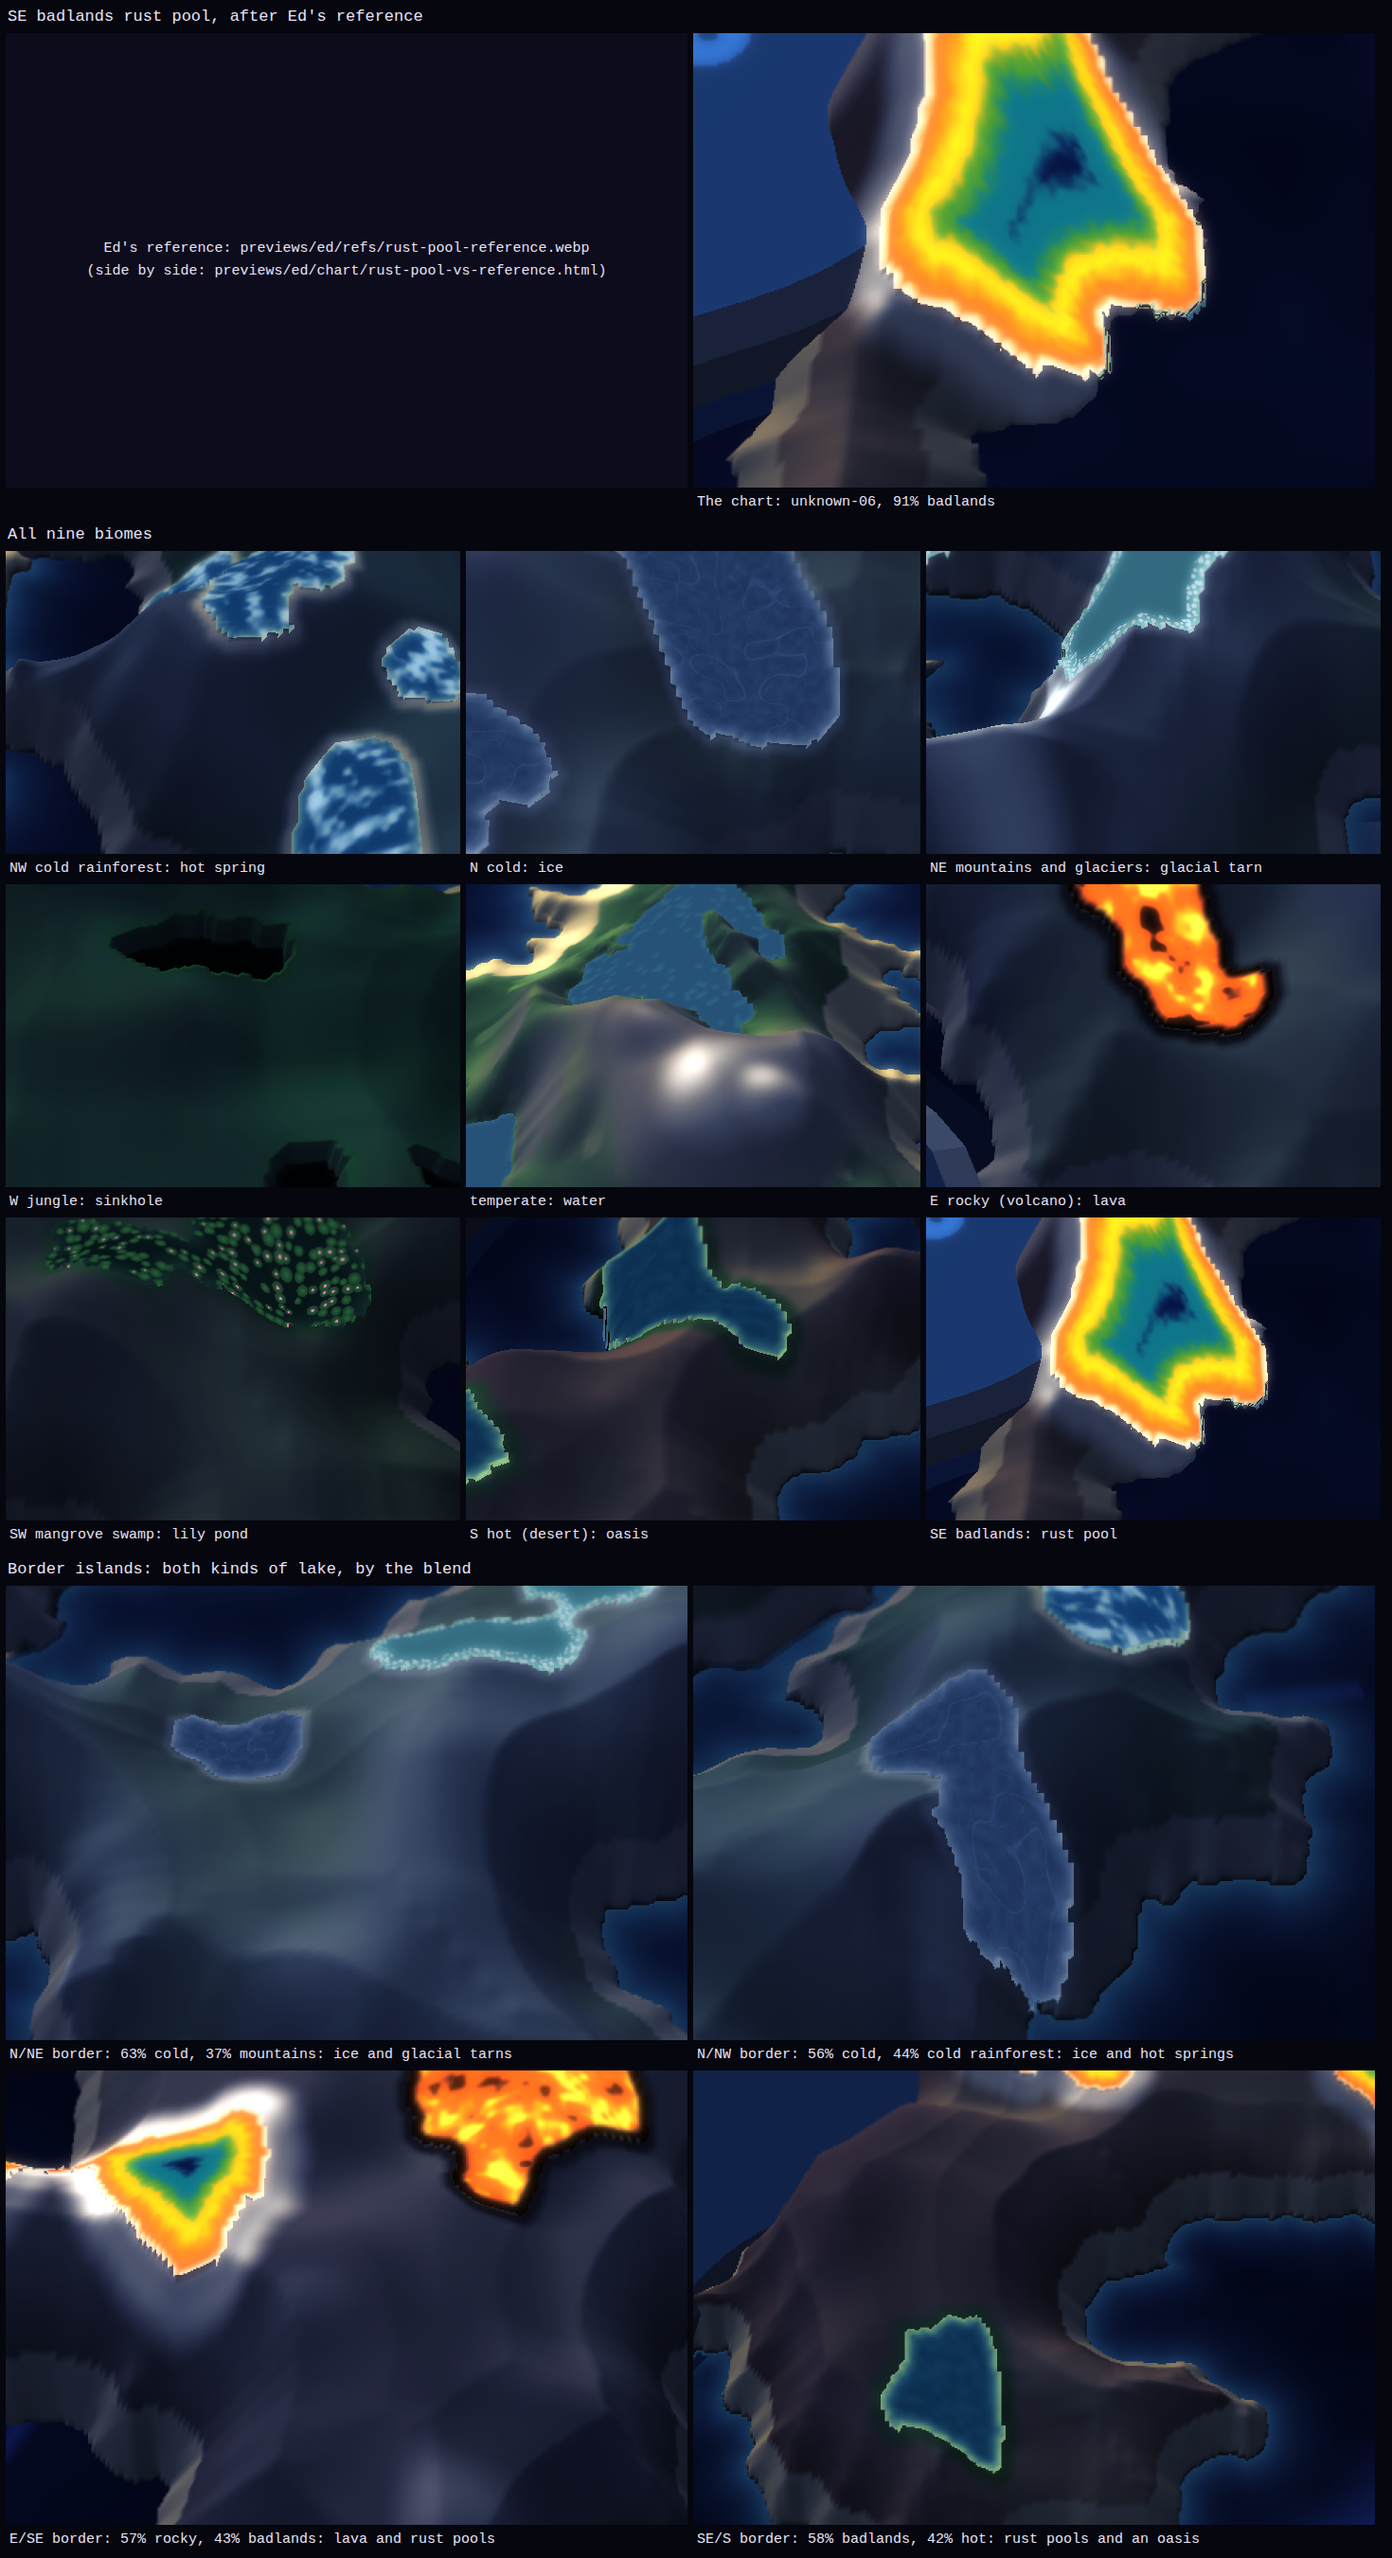
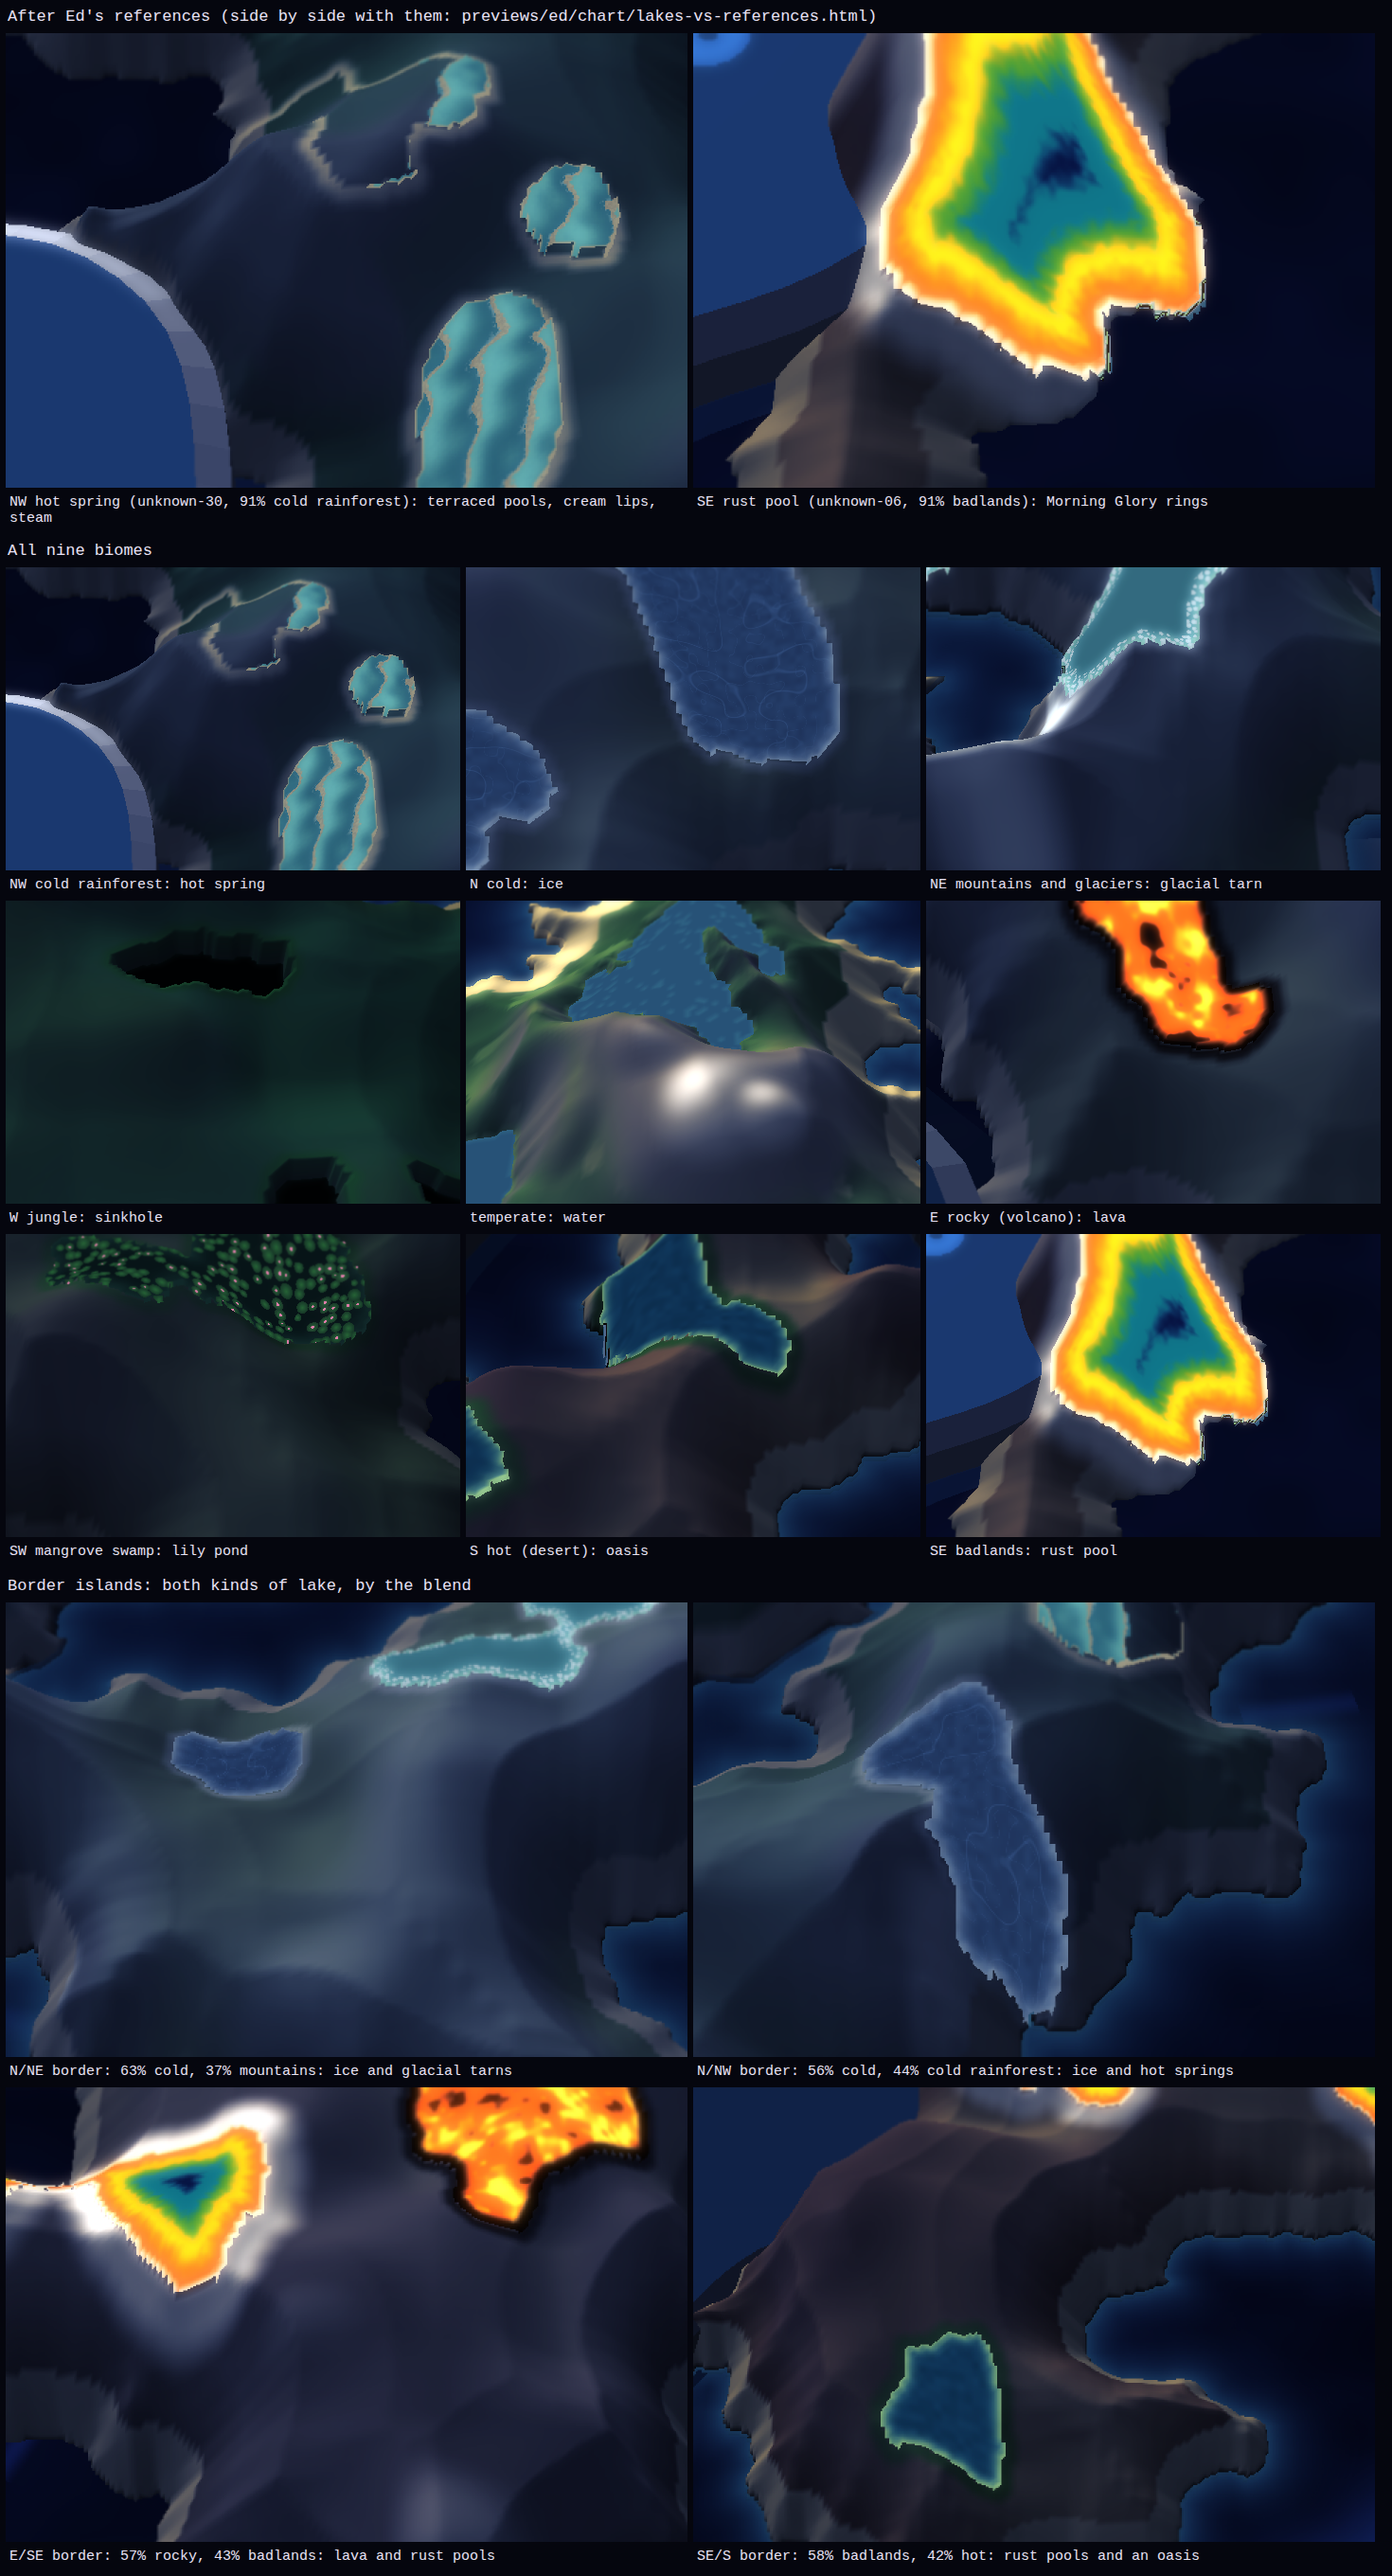
Sea chart: hot spring and rust pool beside Ed's references, sheet refreshed
Claude-Session: https://claude.ai/code/session_01CCJ1G3QaUxYK9jSu9176NM

diff --git a/previews/ed/chart/lakes-vs-references.html b/previews/ed/chart/lakes-vs-references.html
@@ -1,0 +1,1 @@
+<!doctype html><meta charset=utf-8><meta name=viewport content="width=device-width,initial-scale=1"><title>Lakes vs references</title><body style="margin:0;background:#05060e;color:#e8e2f4;font:15px ui-monospace,monospace"><h3 style="margin:10px">NW hot spring</h3><div style="display:flex;flex-wrap:wrap;gap:8px;padding:0 8px"><figure style="margin:0"><img src="../refs/hot-spring-reference.webp" style="max-width:min(560px,100vw - 16px)"><figcaption>Ed's reference</figcaption></figure><figure style="margin:0"><img src="hot-spring-chart.png" style="max-width:min(720px,100vw - 16px)"><figcaption>The sea chart (unknown-30)</figcaption></figure></div><h3 style="margin:10px">SE rust pool</h3><div style="display:flex;flex-wrap:wrap;gap:8px;padding:0 8px"><figure style="margin:0"><img src="../refs/rust-pool-reference.webp" style="max-width:min(720px,100vw - 16px)"><figcaption>Ed's reference</figcaption></figure><figure style="margin:0"><img src="rust-pool-chart.png" style="max-width:min(720px,100vw - 16px)"><figcaption>The sea chart (unknown-06)</figcaption></figure></div>
